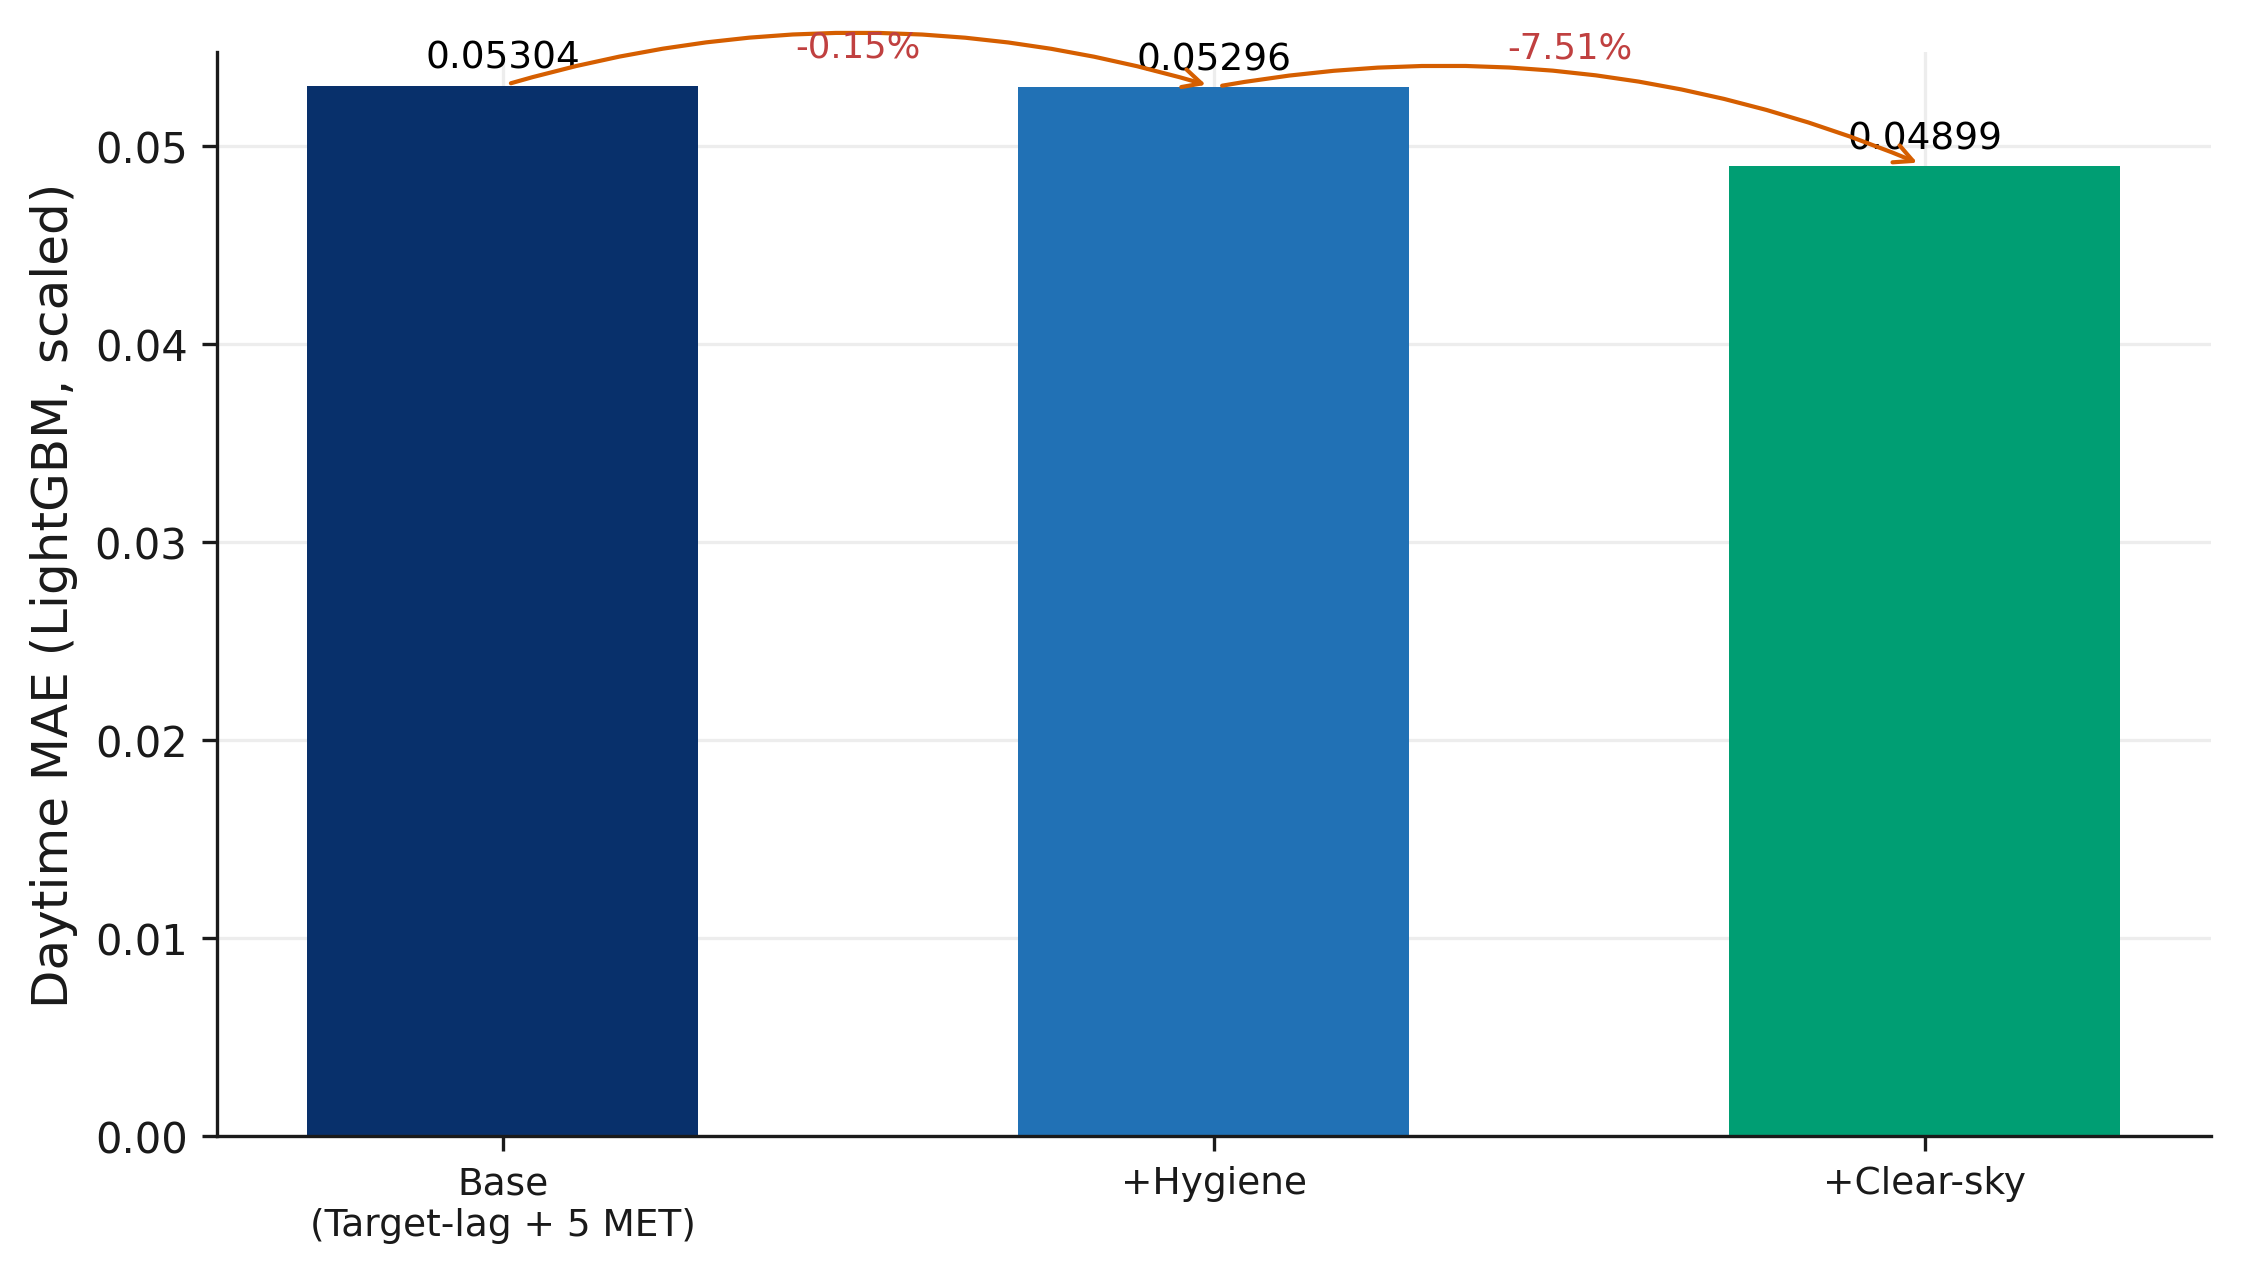
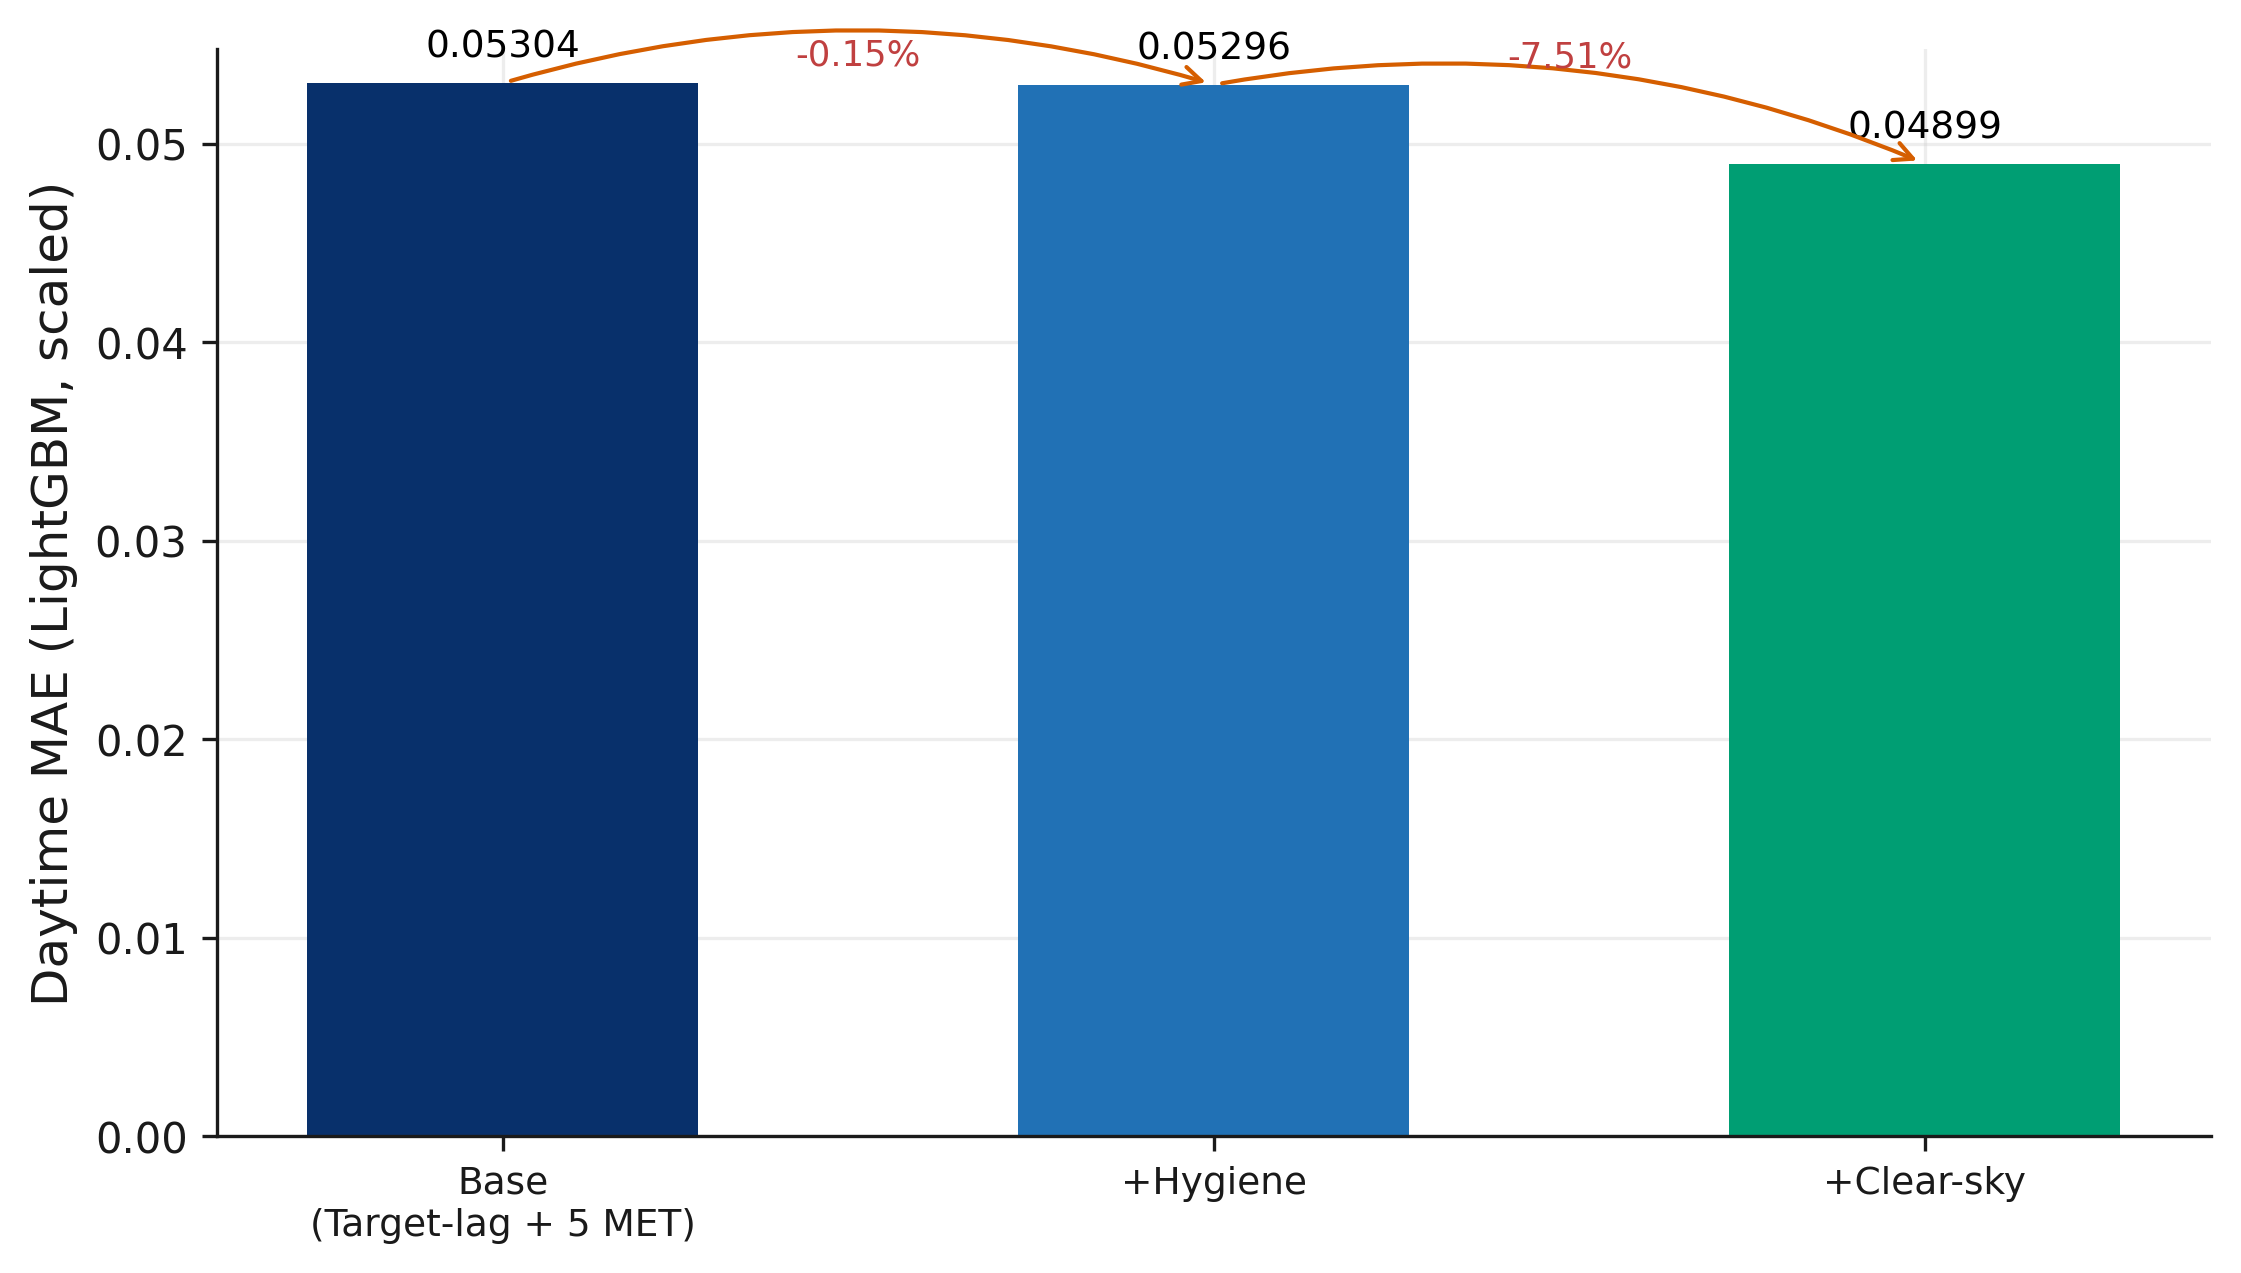
viz(e10b-met): band swap — value labels up to +22% span (top band), pct labels down to +14% (just above the arcs, off the bar tops)

diff --git a/scripts/e10b_waterfall_met.py b/scripts/e10b_waterfall_met.py
@@ -216,14 +216,14 @@ def main() -> int:
     ax.bar(x, main_mae, width=0.55, facecolor=colors, edgecolor="none")
     span = max(main_mae) - min(main_mae)
     for xi, v in zip(x, main_mae):
-        ax.text(xi, v + 0.12 * span, f"{v:.5f}", ha="center", va="bottom",
+        ax.text(xi, v + 0.22 * span, f"{v:.5f}", ha="center", va="bottom",
                 fontsize=9, color="black")
     for i in (1, 2):
         pct = (main_mae[i] / main_mae[i - 1] - 1) * 100
         ax.annotate("", xy=(i, main_mae[i]), xytext=(i - 1, main_mae[i - 1]),
                     arrowprops=dict(arrowstyle="->", color="#D55E00", lw=1.0,
                                     connectionstyle="arc3,rad=-0.15"))
-        ax.text(i - 0.5, max(main_mae[i], main_mae[i - 1]) + 0.28 * span,
+        ax.text(i - 0.5, max(main_mae[i], main_mae[i - 1]) + 0.14 * span,
                 f"{pct:+.2f}%", ha="center", va="bottom", fontsize=8.5,
                 color="#C04040")
     ax.set_xticks(x, stages, fontsize=9)
